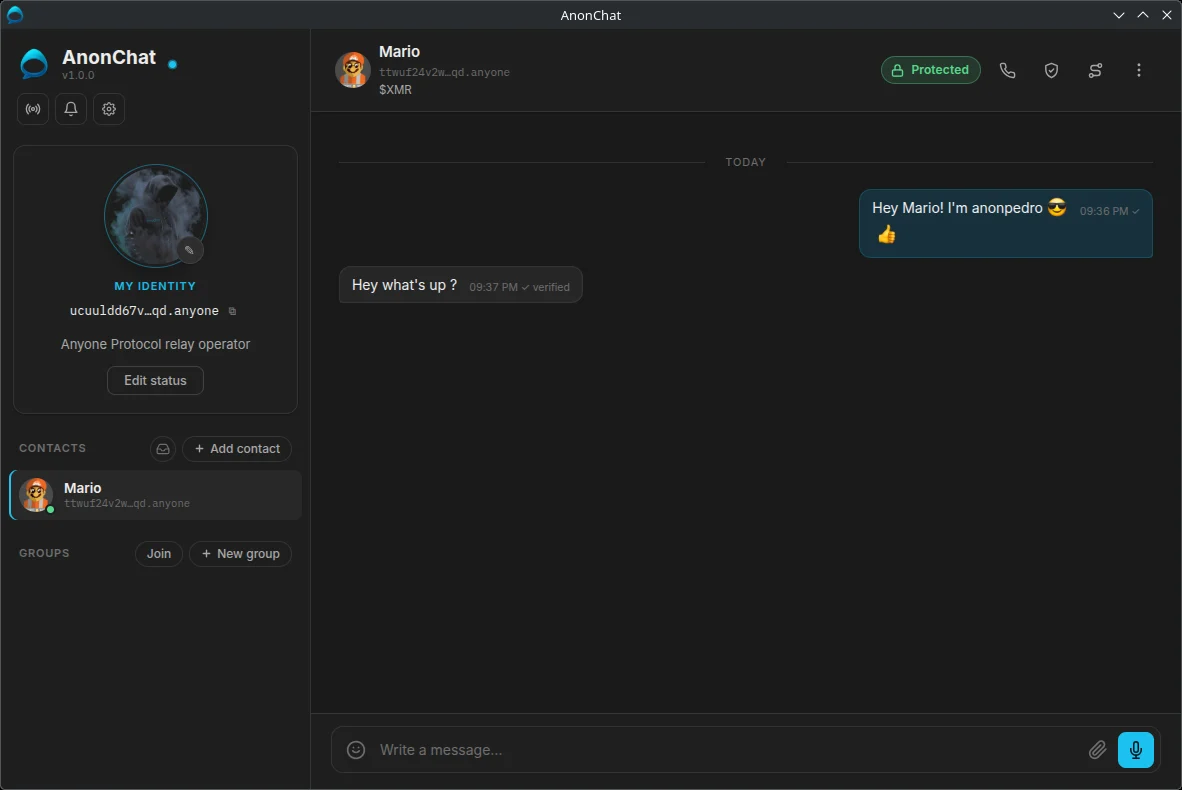
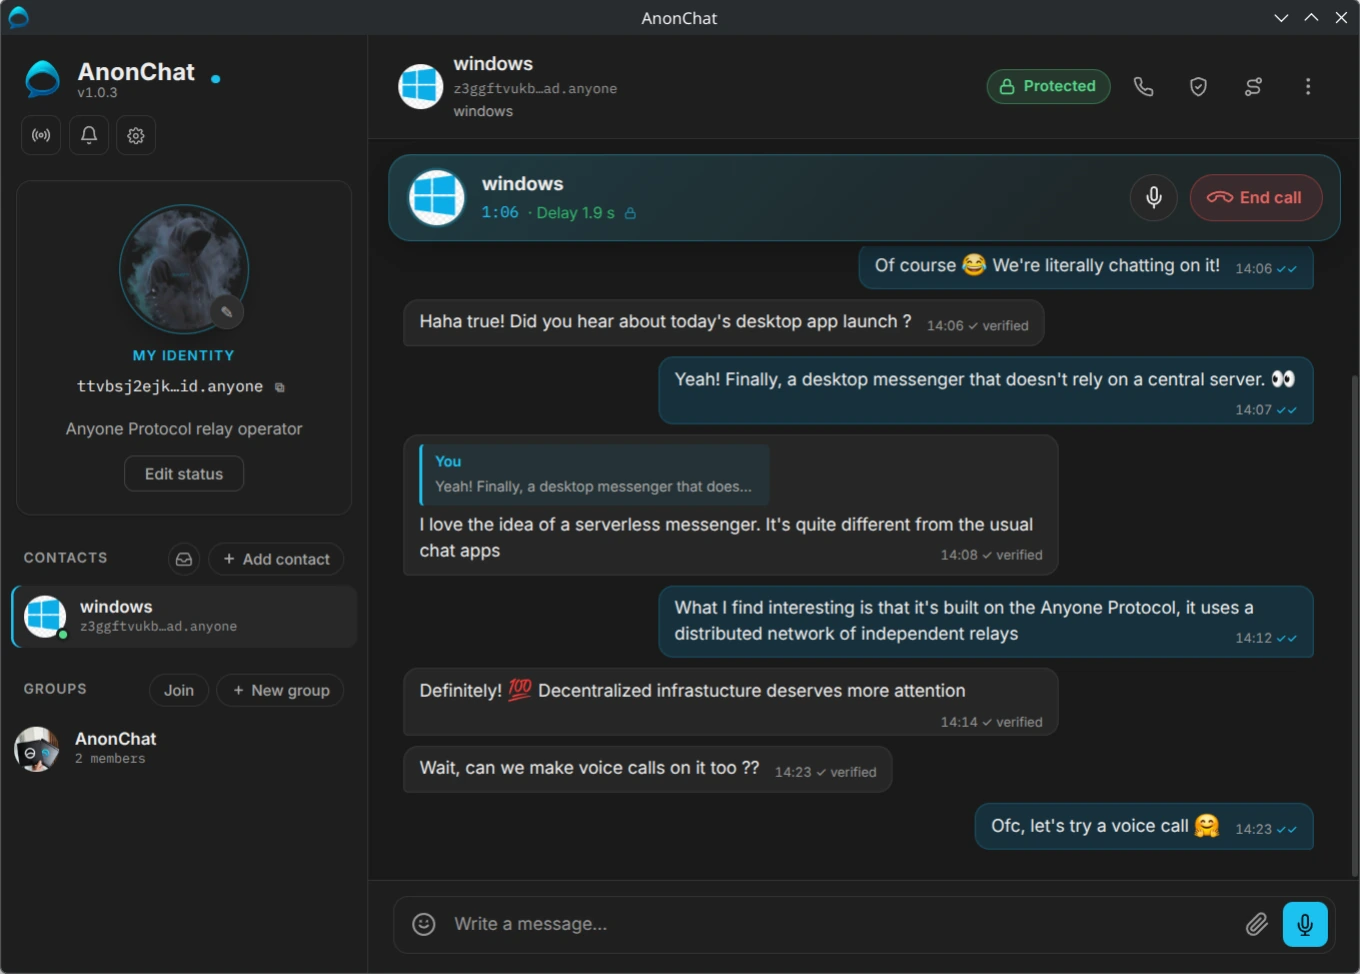
Add files via upload
update landing page screenshot

diff --git a/index.html b/index.html
@@ -1,7 +1,7 @@
 <!doctype html>
 <html lang="en"><head><meta charset="utf-8"><meta name="viewport" content="width=device-width,initial-scale=1">
 <title>AnonChat · Private messaging with no company in the middle</title><meta name="description" content="AnonChat is a private desktop messenger that runs over the Anyone network: no phone number, no account, no central server. End-to-end encrypted, open source.">
-<meta property="og:title" content="AnonChat · Private messaging with no company in the middle"><meta property="og:description" content="AnonChat is a private desktop messenger that runs over the Anyone network: no phone number, no account, no central server. End-to-end encrypted, open source."><meta property="og:image" content="assets/img/chat.webp">
+<meta property="og:title" content="AnonChat · Private messaging with no company in the middle"><meta property="og:description" content="AnonChat is a private desktop messenger that runs over the Anyone network: no phone number, no account, no central server. End-to-end encrypted, open source."><meta property="og:image" content="assets/img/og-chat.png">
 <meta name="referrer" content="no-referrer">
 <link rel="icon" href="assets/img/favicon.png"><link rel="stylesheet" href="assets/style.css"></head><body>
 <header class="nav"><div class="wrap">
@@ -18,7 +18,7 @@
     <div class="ctas"><a class="btn btn-primary" href="download.html"><svg width="18" height="18" viewBox="0 0 24 24" fill="none" stroke="currentColor" stroke-width="2.2" stroke-linecap="round" stroke-linejoin="round"><path d="M12 3v12M7 10l5 5 5-5M5 21h14"/></svg>Download AnonChat</a><a class="btn btn-ghost" href="how-it-works.html">How it works</a></div>
     <div class="meta">Open source · AGPL-3.0 · Version 1.0.3</div>
   </div>
-  <div class="shot"><img src="assets/img/chat.webp" alt="AnonChat conversation window" width="1182" height="790"></div>
+  <div class="shot"><img src="assets/img/chat.webp" alt="AnonChat conversation window with an active voice call" width="1360" height="974"></div>
 </div></section>
 
 <div class="strip"><ul>

diff --git a/how-it-works.html b/how-it-works.html
@@ -1,7 +1,7 @@
 <!doctype html>
 <html lang="en"><head><meta charset="utf-8"><meta name="viewport" content="width=device-width,initial-scale=1">
 <title>How AnonChat works · Circuits and security</title><meta name="description" content="How AnonChat delivers messages over the Anyone network without a server, how circuits work, and the security features that protect you.">
-<meta property="og:title" content="How AnonChat works · Circuits and security"><meta property="og:description" content="How AnonChat delivers messages over the Anyone network without a server, how circuits work, and the security features that protect you."><meta property="og:image" content="assets/img/chat.webp">
+<meta property="og:title" content="How AnonChat works · Circuits and security"><meta property="og:description" content="How AnonChat delivers messages over the Anyone network without a server, how circuits work, and the security features that protect you."><meta property="og:image" content="assets/img/og-chat.png">
 <meta name="referrer" content="no-referrer">
 <link rel="icon" href="assets/img/favicon.png"><link rel="stylesheet" href="assets/style.css"></head><body>
 <header class="nav"><div class="wrap">

diff --git a/download.html b/download.html
@@ -1,7 +1,7 @@
 <!doctype html>
 <html lang="en"><head><meta charset="utf-8"><meta name="viewport" content="width=device-width,initial-scale=1">
 <title>Download AnonChat</title><meta name="description" content="Download AnonChat for Windows and Linux from the official GitHub releases. Open source, no account needed.">
-<meta property="og:title" content="Download AnonChat"><meta property="og:description" content="Download AnonChat for Windows and Linux from the official GitHub releases. Open source, no account needed."><meta property="og:image" content="assets/img/chat.webp">
+<meta property="og:title" content="Download AnonChat"><meta property="og:description" content="Download AnonChat for Windows and Linux from the official GitHub releases. Open source, no account needed."><meta property="og:image" content="assets/img/og-chat.png">
 <meta name="referrer" content="no-referrer">
 <link rel="icon" href="assets/img/favicon.png"><link rel="stylesheet" href="assets/style.css"></head><body>
 <header class="nav"><div class="wrap">

diff --git a/assets/style.css b/assets/style.css
@@ -59,7 +59,7 @@ p{margin:0 0 1em}
 .hero .ctas{display:flex;gap:12px;flex-wrap:wrap;margin:30px 0 22px}
 .hero .meta{font-size:14px;color:var(--on-dark-2)}
 .hero .shot{align-self:end;margin-bottom:-2px}
-.hero .shot img{border-radius:14px 14px 0 0;border:1px solid rgba(255,255,255,.12);border-bottom:0;box-shadow:0 30px 80px rgba(0,0,0,.55)}
+.hero .shot img{filter:drop-shadow(0 30px 60px rgba(0,0,0,.55))}
 .page-hero{background:radial-gradient(900px 420px at 90% -20%,rgba(27,193,239,.2),transparent 60%),var(--navy);color:var(--on-dark-2);padding:72px 0 64px}
 .page-hero h1{color:#fff;font-size:clamp(34px,4.4vw,52px);line-height:1.08;font-weight:700;letter-spacing:-.02em;margin:12px 0 16px;max-width:860px}
 .page-hero .lead{color:var(--on-dark-2)}
